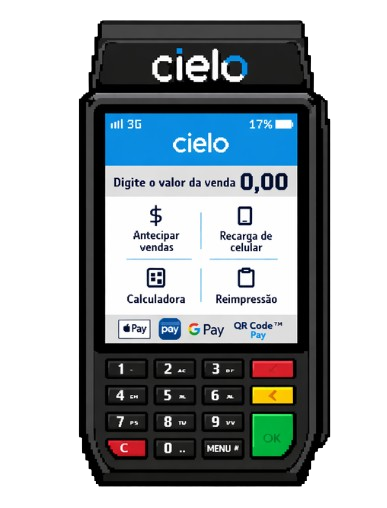
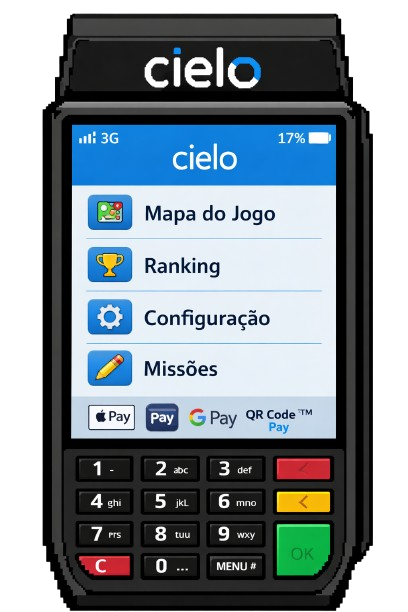
feat: Adição da HUD da maquininha interativa #286

diff --git a/src/scenes/SceneCidade.js b/src/scenes/SceneCidade.js
@@ -38,6 +38,7 @@ export default class SceneCidade extends Phaser.Scene {
       "tilesMapaBase",
       "src/assets/imagens/mapsjson/tileSets/Modern_Exteriors_Bottom.png?v=1",
     );
+    this.load.image("maquininhaCielo", "src/assets/imagens/HUD/maquininha.png");
 
     const caminhoBase = `src/assets/imagens/imagensPersonagens/${nomePasta}`;
     for (let i = 1; i <= 4; i++) {
@@ -62,11 +63,13 @@ export default class SceneCidade extends Phaser.Scene {
 
   // Monta mapa, personagem e interfaces
   create() {
+    // Área jogável usada por câmera e física
     const MAPA_X = 720;
     const MAPA_Y = 100;
     const MAPA_LARGURA = 2432;
     const MAPA_ALTURA = 1760;
 
+    // Mapa principal + tilesets exportados do Tiled
     const mapa = this.make.tilemap({ key: "mapaGeral" });
     const tileset1 = mapa.addTilesetImage("ME_Top_1", "tilesMapaTopo");
     const tileset2 = mapa.addTilesetImage("ME_Bottom_1", "tilesMapaBase");
@@ -80,6 +83,7 @@ export default class SceneCidade extends Phaser.Scene {
     let estabelecimentos;
 
     if (tilesets.length > 0) {
+      // Camadas visuais de base
       this._criarCamada(mapa, "objetosSemColid_em_cima_2", tilesets);
       this._criarCamada(mapa, "contorno_preto_do_mapa", tilesets);
       this._criarCamada(mapa, "chao_inferior_de_areia", tilesets);
@@ -91,6 +95,7 @@ export default class SceneCidade extends Phaser.Scene {
       this._criarCamada(mapa, "n_objetosSemColi_em_baixo_2", tilesets);
       this._criarCamada(mapa, "n_linhas da rua", tilesets);
 
+      // Camadas com colisão
       caminhoInferior = this._criarCamada(
         mapa,
         "c_objetosComColid_em_baixo",
@@ -114,6 +119,7 @@ export default class SceneCidade extends Phaser.Scene {
       if (estabelecimentos) estabelecimentos.setCollisionByExclusion([-1]);
     }
 
+    // Cria animações de caminhada só uma vez
     const direcoes = ["frente", "tras", "direita", "esquerda"];
     direcoes.forEach((dir) => {
       if (!this.anims.exists(`andar_${dir}`)) {
@@ -134,6 +140,7 @@ export default class SceneCidade extends Phaser.Scene {
     const spawnX = this.spawnXCustom || 840;
     const spawnY = this.spawnYCustom || 900;
 
+    // Jogador
     this.personagem = this.physics.add.sprite(
       spawnX,
       spawnY,
@@ -160,6 +167,7 @@ export default class SceneCidade extends Phaser.Scene {
     if (estabelecimentos)
       this.physics.add.collider(this.personagem, estabelecimentos);
 
+    // Camadas acima do personagem para efeito de profundidade
     if (tilesets.length > 0) {
       const decSup1 = this._criarCamada(
         mapa,
@@ -191,11 +199,13 @@ export default class SceneCidade extends Phaser.Scene {
     });
     this.teclaE = this.input.keyboard.addKey(Phaser.Input.Keyboard.KeyCodes.E);
 
+    // Câmera principal seguindo o personagem
     this.cameras.main.startFollow(this.personagem);
     this.cameras.main.setZoom(4);
     this.cameras.main.setBounds(MAPA_X, MAPA_Y, MAPA_LARGURA, MAPA_ALTURA);
     this.physics.world.setBounds(MAPA_X, MAPA_Y, MAPA_LARGURA, MAPA_ALTURA);
 
+    // Zonas interativas e labels de entrada
     this.zonaAgencia = new Phaser.Geom.Rectangle(976, 856, 90, 80);
     this.labelE = this.add
       .text(976, 856, "[E] Entrar", {
@@ -350,6 +360,7 @@ export default class SceneCidade extends Phaser.Scene {
 
     this.direcaoAtual = "frente";
 
+    // Minimap com câmera separada
     const MM_X = 10;
     const MM_Y = 10;
     const TM_W = 3328;
@@ -402,6 +413,10 @@ export default class SceneCidade extends Phaser.Scene {
       this.debugTxt,
     ]);
 
+    // HUD da maquininha
+    this._criarHudCidade();
+
+    // Cena de chuva roda em paralelo
     this.scene.launch("SceneChuva");
   }
 
@@ -422,11 +437,162 @@ export default class SceneCidade extends Phaser.Scene {
     }
   }
 
+  _criarHudCidade() {
+    // Estado inicial: maquininha no canto, compacta
+    this.hudMargemDireita = 34;
+    this.hudMargemBaixo = 44;
+    this.hudUiScale = 1 / this.cameras.main.zoom;
+    this.hudNoCentro = false;
+    this.hudAnimando = false;
+    this.hudIconBaseScale = 0.45 * this.hudUiScale;
+    this.hudIconZoomScale = 1.25 * this.hudUiScale;
+
+    this.hudIcon = this.add
+      .image(0, 0, "maquininhaCielo")
+      .setScale(this.hudIconBaseScale)
+      .setOrigin(0.5)
+      .setDepth(200)
+      .setInteractive({ useHandCursor: true });
+
+    const closeRadius = 12 * this.hudUiScale;
+    this.hudCloseBg = this.add
+      .circle(0, 0, closeRadius, 0xcf1f1f, 0.95)
+      .setStrokeStyle(Math.max(1, Math.round(2 * this.hudUiScale)), 0x7a0000, 1)
+      .setDepth(210)
+      .setVisible(false)
+      .setInteractive({ useHandCursor: true });
+
+    const closeFont = Math.max(8, Math.round(14 * this.hudUiScale));
+    this.hudCloseTxt = this.add
+      .text(0, 0, "X", {
+        fontSize: `${closeFont}px`,
+        color: "#ffecec",
+        fontStyle: "bold",
+      })
+      .setOrigin(0.5)
+      .setDepth(211)
+      .setVisible(false)
+      .setInteractive({ useHandCursor: true });
+
+    // HUD não aparece no minimapa
+    this.miniMapCam.ignore(this.hudIcon);
+    this.borderCam.ignore(this.hudIcon);
+    this.miniMapCam.ignore([this.hudCloseBg, this.hudCloseTxt]);
+    this.borderCam.ignore([this.hudCloseBg, this.hudCloseTxt]);
+
+    this.hudIcon.on("pointerover", () => {
+      if (!this.hudNoCentro && !this.hudAnimando) {
+        this.hudIcon.setScale(0.5 * this.hudUiScale);
+      }
+    });
+    this.hudIcon.on("pointerout", () => {
+      if (!this.hudNoCentro && !this.hudAnimando) {
+        this.hudIcon.setScale(this.hudIconBaseScale);
+      }
+    });
+
+    this.hudIcon.on("pointerdown", () => {
+      if (this.hudAnimando) return;
+
+      if (!this.hudNoCentro) {
+        // Primeiro clique: vai para o centro e aumenta
+        this.hudAnimando = true;
+        const cam = this.cameras.main;
+
+        this.tweens.add({
+          targets: this.hudIcon,
+          x: cam.worldView.centerX,
+          y: cam.worldView.centerY,
+          scale: this.hudIconZoomScale,
+          duration: 260,
+          ease: "Quad.Out",
+          onComplete: () => {
+            this.hudNoCentro = true;
+            this.hudAnimando = false;
+          },
+        });
+        return;
+      }
+
+      // Clique no centro: feedback rápido
+      this.tweens.add({
+        targets: this.hudIcon,
+        scale: this.hudIconZoomScale * 1.08,
+        duration: 90,
+        yoyo: true,
+        ease: "Sine.Out",
+      });
+      console.log("[HUD] Maquininha clicada no centro");
+    });
+
+    const fecharHud = () => {
+      if (!this.hudNoCentro || this.hudAnimando) return;
+
+      // Retorna para o canto
+      this.hudAnimando = true;
+      this.hudCloseBg.setVisible(false);
+      this.hudCloseTxt.setVisible(false);
+
+      const cam = this.cameras.main;
+      const alvoX = cam.worldView.right - this.hudMargemDireita;
+      const alvoY = cam.worldView.bottom - this.hudMargemBaixo;
+
+      this.tweens.add({
+        targets: this.hudIcon,
+        x: alvoX,
+        y: alvoY,
+        scale: this.hudIconBaseScale,
+        duration: 240,
+        ease: "Quad.InOut",
+        onComplete: () => {
+          this.hudNoCentro = false;
+          this.hudAnimando = false;
+        },
+      });
+    };
+
+    this.hudCloseBg.on("pointerdown", fecharHud);
+    this.hudCloseTxt.on("pointerdown", fecharHud);
+
+    this._atualizarHudCidade();
+  }
+
+  _atualizarHudCidade() {
+    if (!this.hudIcon) return;
+
+    const cam = this.cameras.main;
+    if (this.hudAnimando) return;
+
+    if (this.hudNoCentro) {
+      // Enquanto estiver aberta, acompanha o centro da câmera
+      const centerX = cam.worldView.centerX;
+      const centerY = cam.worldView.centerY;
+      this.hudIcon.setPosition(centerX, centerY);
+
+      const closeOffsetX = 112 * this.hudUiScale;
+      const closeOffsetY = 292 * this.hudUiScale;
+      this.hudCloseBg
+        .setPosition(centerX + closeOffsetX, centerY - closeOffsetY)
+        .setVisible(true);
+      this.hudCloseTxt
+        .setPosition(centerX + closeOffsetX, centerY - closeOffsetY - 1)
+        .setVisible(true);
+      return;
+    }
+
+    const hudX = cam.worldView.right - this.hudMargemDireita;
+    const hudY = cam.worldView.bottom - this.hudMargemBaixo;
+    this.hudIcon.setPosition(hudX, hudY);
+    this.hudCloseBg.setVisible(false);
+    this.hudCloseTxt.setVisible(false);
+  }
+
   // Atualiza movimento, zonas e transições
   update() {
     const velocidade = 150;
     const { teclas, wasd, personagem } = this;
 
+    // Movimento do jogador
     personagem.setVelocity(0);
     let movendo = false;
 
@@ -459,6 +625,7 @@ export default class SceneCidade extends Phaser.Scene {
       personagem.setTexture(`sprite_${this.direcaoAtual}_1`);
     }
 
+    // Mostra/oculta labels quando entra nas zonas
     const dentroAgencia = Phaser.Geom.Rectangle.Contains(
       this.zonaAgencia,
       personagem.x,
@@ -564,7 +731,9 @@ export default class SceneCidade extends Phaser.Scene {
     );
     this.debugTxt.setPosition(personagem.x - 10, personagem.y - 18);
     this.minimapPlayerDot.setPosition(personagem.x, personagem.y);
+    this._atualizarHudCidade();
 
+    // Tecla E para transição de cenas
     if (!this.transicionando && Phaser.Input.Keyboard.JustDown(this.teclaE)) {
       if (dentroAgencia) {
         this.transicionando = true;
